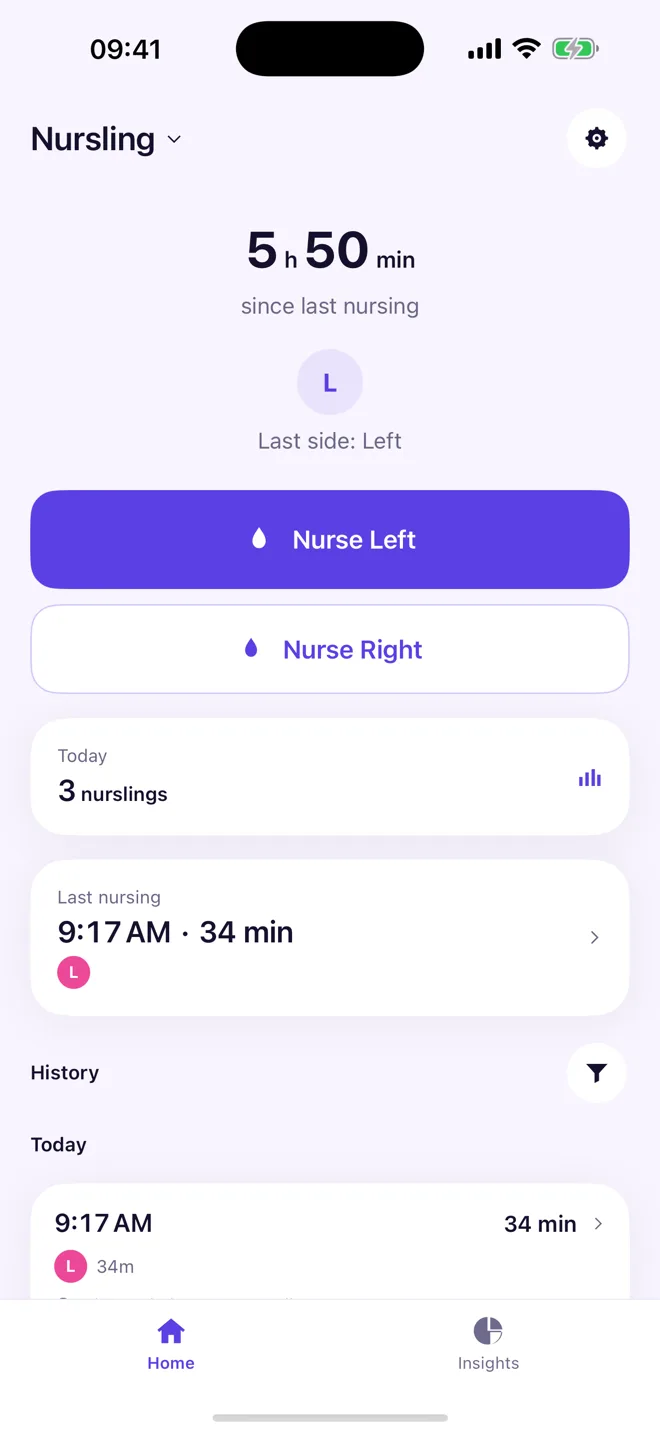
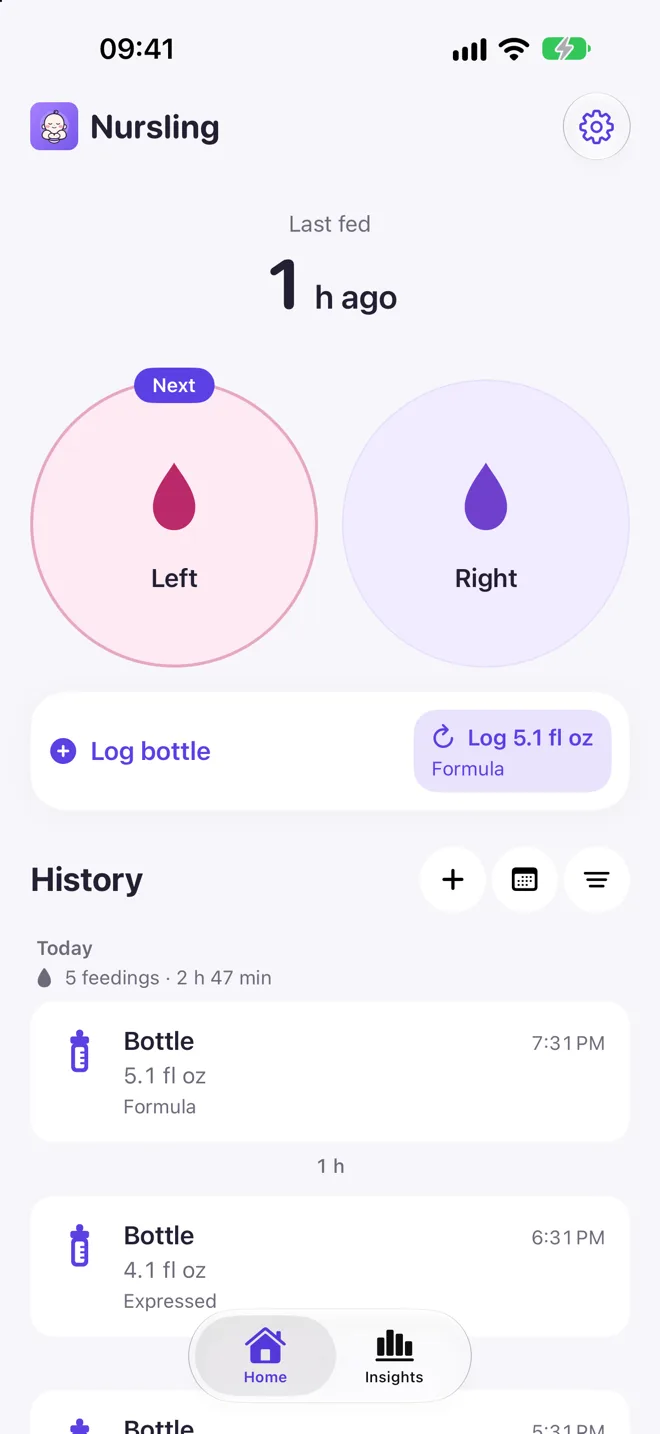
Broaden positioning beyond iOS, add French, refresh Nursling card
Retitle as Software Engineering Lead and generalise the hero, capabilities,
experience and contact copy. Add French (professional) to languages. Show the
current Nursling screenshots plus the iPhone Duo layout on the main page.

diff --git a/src/data/profile.ts b/src/data/profile.ts
@@ -4,7 +4,7 @@
 
 export const profile = {
   name: 'David Ferreira',
-  role: 'Mobile Engineering Lead & iOS Architect',
+  role: 'Software Engineering Lead',
   yearsExperience: '16+',
   location: 'Portugal',
   timezone: 'UTC+0 / UTC+1 (Lisbon)',
@@ -130,6 +130,7 @@ export const community = [
 export const languages = [
   { name: 'Portuguese', level: 'Native' },
   { name: 'English', level: 'Professional' },
+  { name: 'French', level: 'Professional' },
 ];
 
 /** The Person node every page's JSON-LD points at by @id. */
@@ -143,16 +144,15 @@ export const personSchema = {
   image: `${profile.site}/og.png`,
   address: { '@type': 'PostalAddress', addressCountry: 'PT' },
   alumniOf: { '@type': 'CollegeOrUniversity', name: education.school },
-  knowsLanguage: ['pt', 'en'],
+  knowsLanguage: ['pt', 'en', 'fr'],
   knowsAbout: [
-    'iOS development',
-    'Swift',
-    'SwiftUI',
-    'Mobile architecture',
-    'Swift Concurrency',
-    'Real-time systems',
+    'Software engineering',
+    'Software architecture',
     'Engineering leadership',
+    'Mobile development',
+    'Real-time systems',
     'Release management',
+    'AI-assisted development',
   ],
   sameAs: [profile.linkedin, profile.github],
 };
